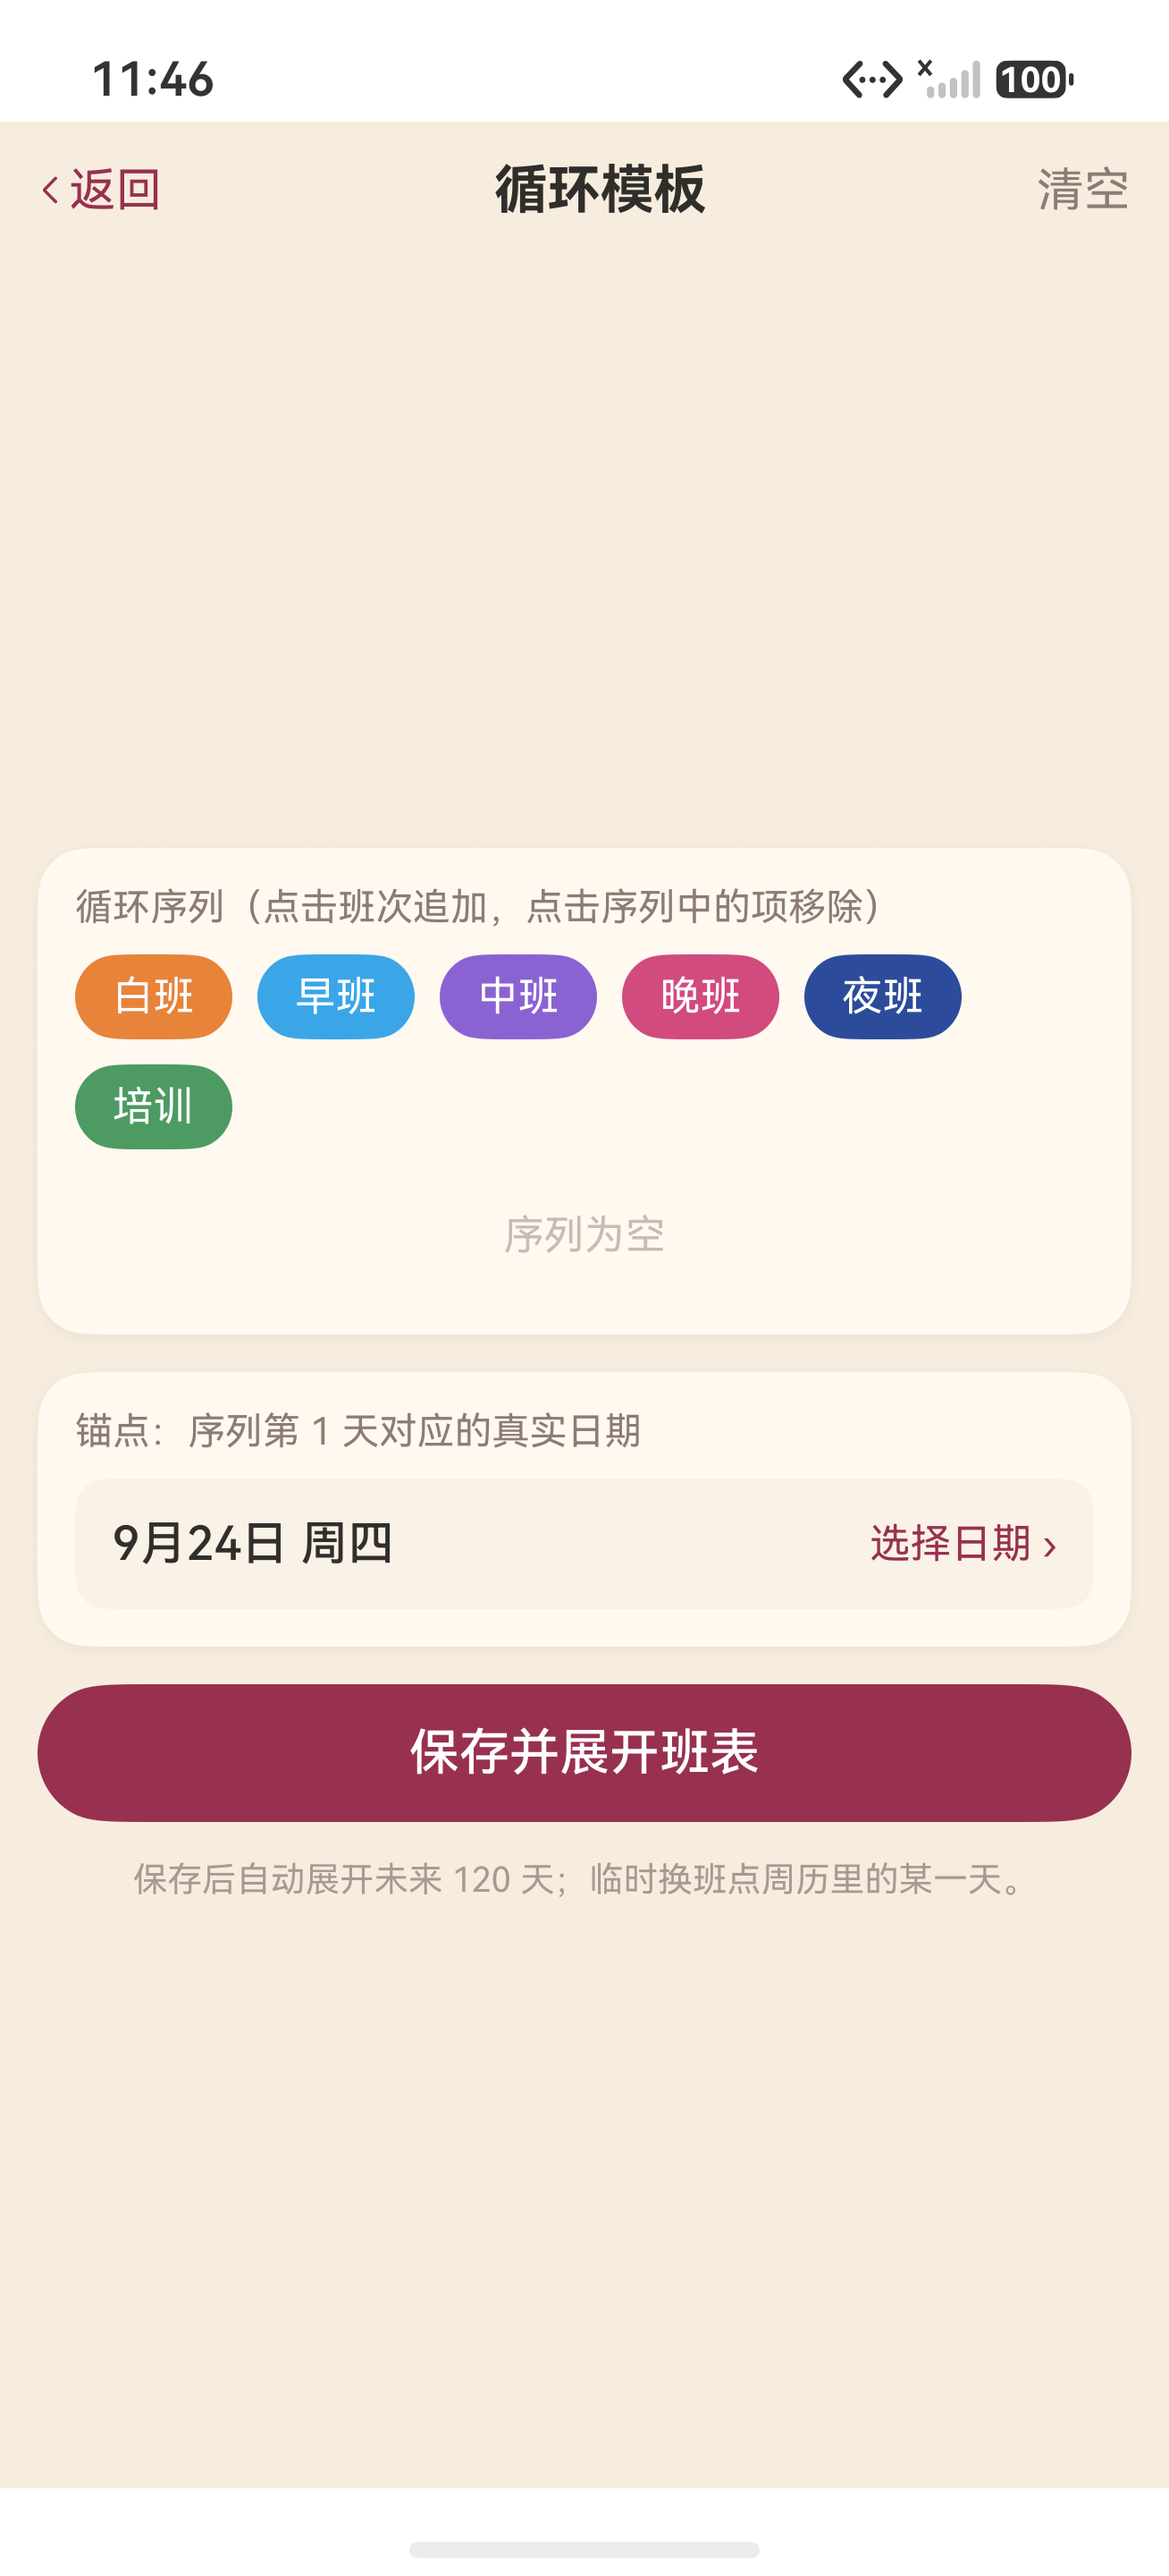
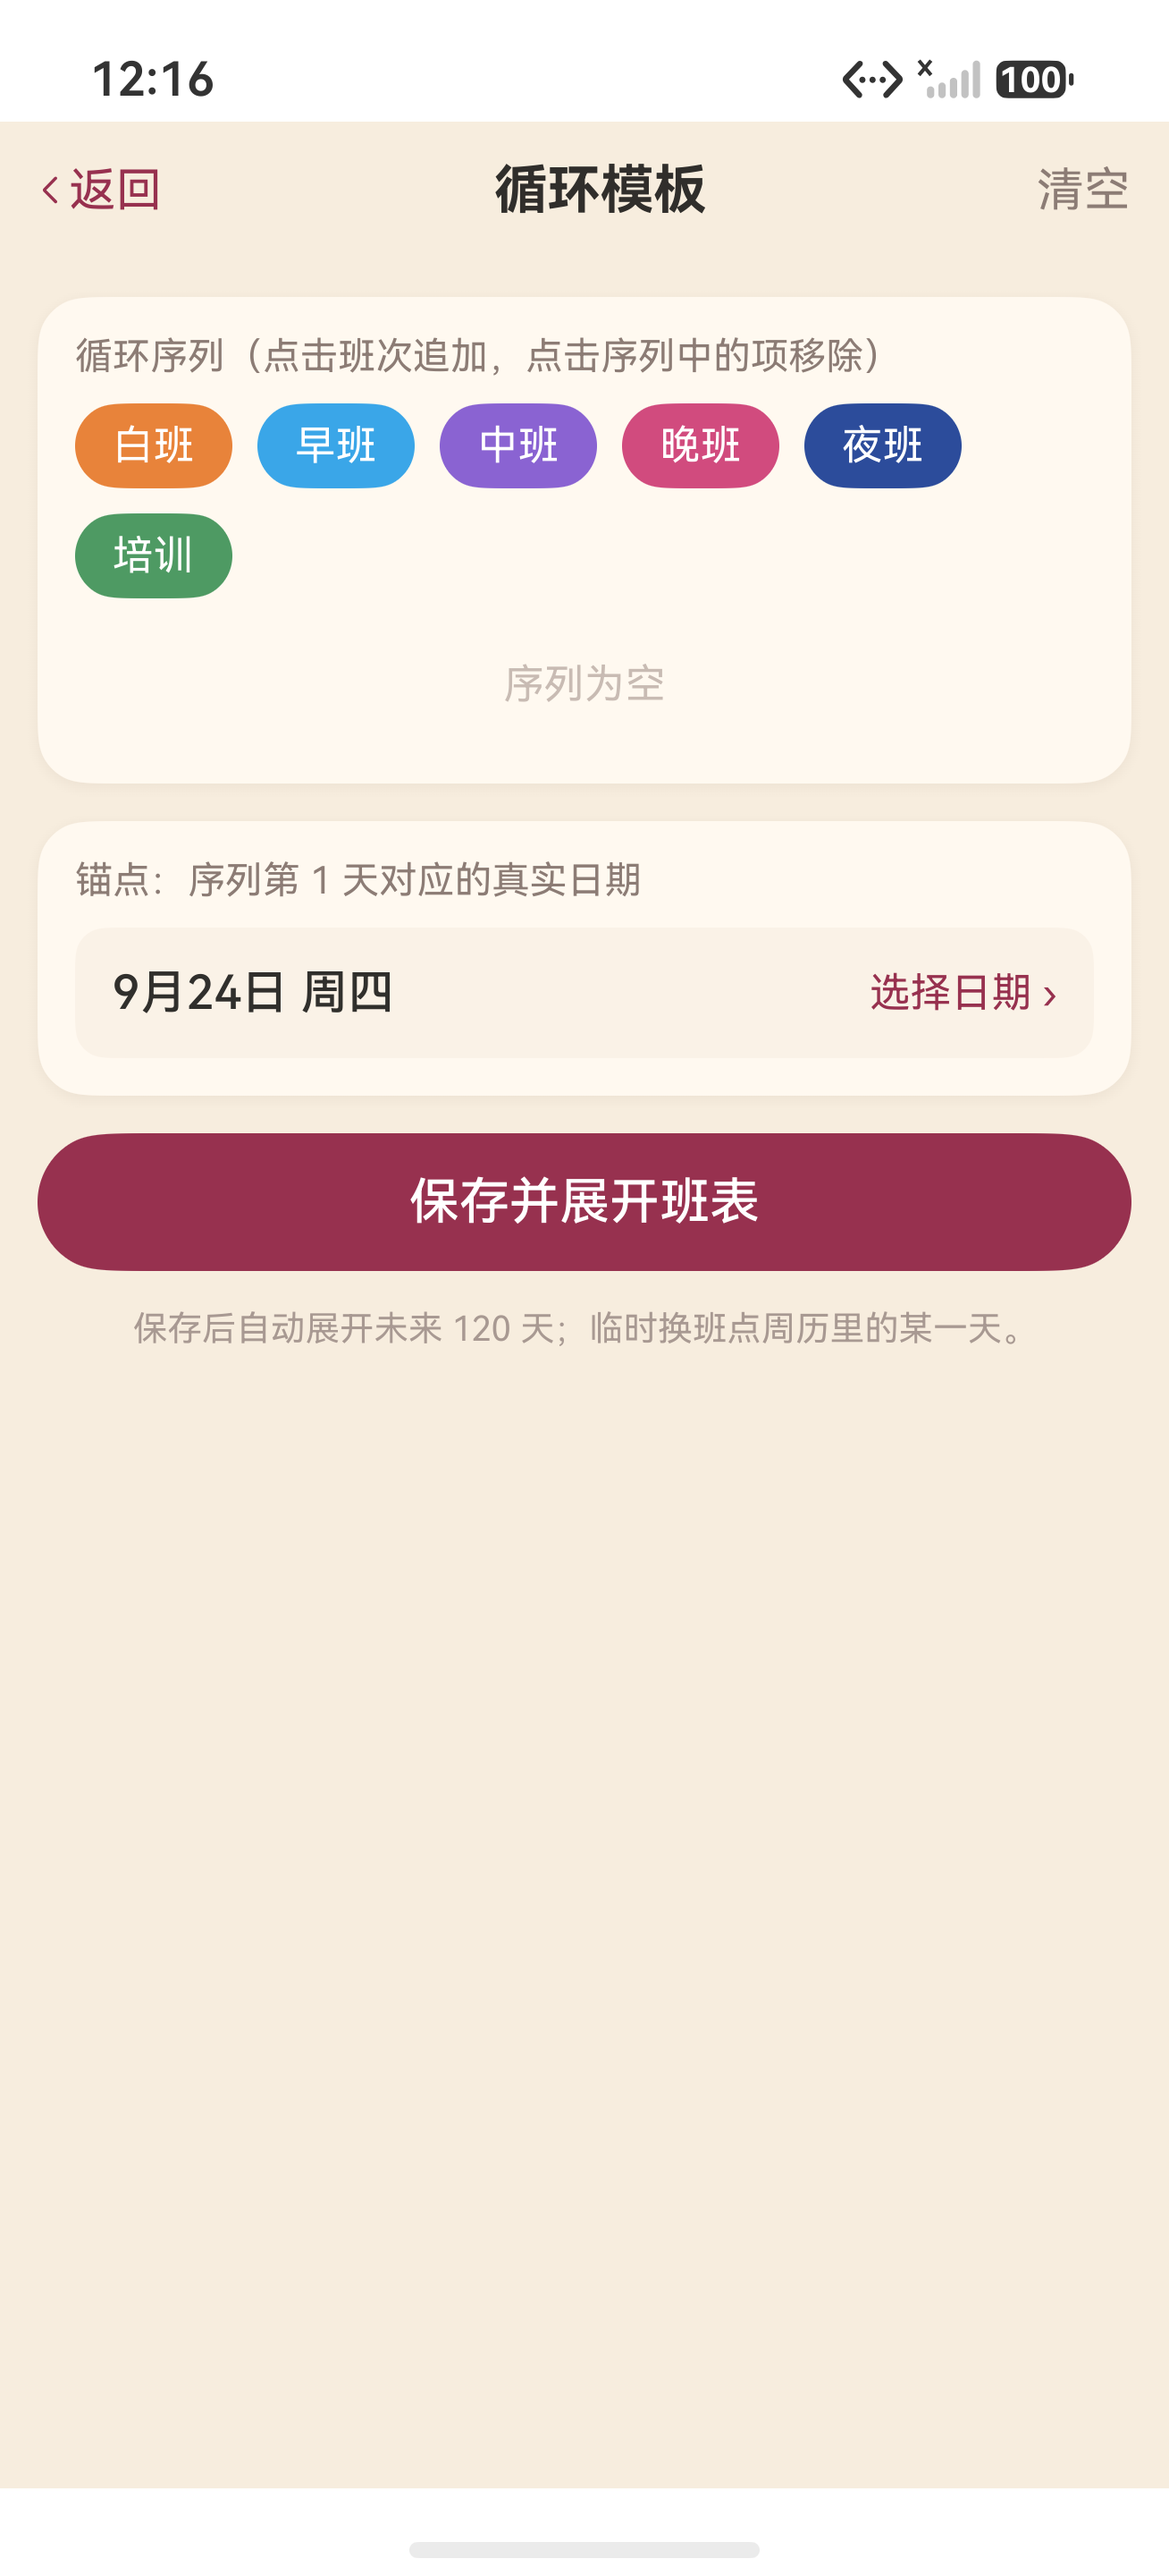
fix(cycle): top-align the cycle editor scroll so the first card hugs the header
The page's Scroll had no explicit align, so a short template list was laid out
centred and left ~28% of the viewport blank above the sequence card. The
re-shot device capture is what closes the root-cause question in the work-order.

diff --git a/docs/design/ui-parity-2026-09-23.md b/docs/design/ui-parity-2026-09-23.md
@@ -261,7 +261,7 @@ TodayOverview 的忙碌来源与窗口读模型不同源。定位入口：`entry
 
 ---
 
-### D-09 · 循环模板首屏大片空白 · P1 · 改 App（根因待验证）
+### D-09 · 循环模板首屏大片空白 · P1 · 改 App（根因已确认）
 
 `app/14-cycle.png`：页头与「循环序列」卡之间约 35% 屏高是空的，内容整体像被垂直居中；原型 `prototype/14-cycle.png` 内容紧贴页头。
 
@@ -269,6 +269,10 @@ TodayOverview 的忙碌来源与窗口读模型不同源。定位入口：`entry
 
 **判断（缺官方证据，先验证再改）**：ArkUI `Scroll` 在内容短于视口时可能按居中对齐摆放子节点。本地离线快照未收录 `Scroll` 的 `align` 默认值，因此这一条**不作为事实陈述**。
 验证方式：给 `Scroll` 显式加 `.align(Alignment.TopStart)`，若空白消失即确认；否则查 `NavDestination` 标题栏占位。
+
+**已整改（2026-09-24 设备复验）**：`Scroll` 加 `.align(Alignment.TopStart)` 一行，clean 出包后装在 `127.0.0.1:5555`，冷启动走 我的 → 日程录入 → 滚动到「四个主入口」→ 循环模板，复验图 `app/14-cycle.png`（`layout/14-cycle.json`）。
+量化对照（同一页面、同一设备、单位 px）：整改前「循环序列」标签 y=`990`、首卡顶约 `978`，页头底 y=`248` → 空 730px（约占页头以下可视高 2632 的 28%）；整改后标签 y=`374`、首卡顶约 `362` → 空 114px（即 `Column` 的 `padding(12)` ＋ 卡片自身留白，属正常）。
+**根因确认**：空白消失且剩余间距等于设计留白 ⇒ 是 `Scroll` 子节点在内容短于视口时的默认对齐（居中）造成，不是 `NavDestination` 标题栏占位——后者若为因，显式 `align` 不会改变首卡位置。文档原先写的「约 35%」是首轮目测，实测为 28%，结论方向不变。
 
 ---
 
